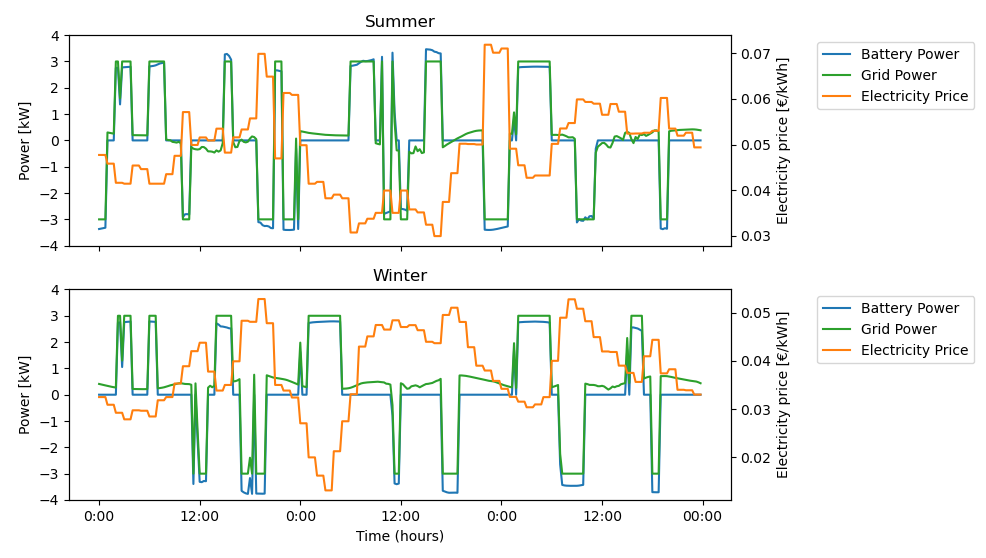
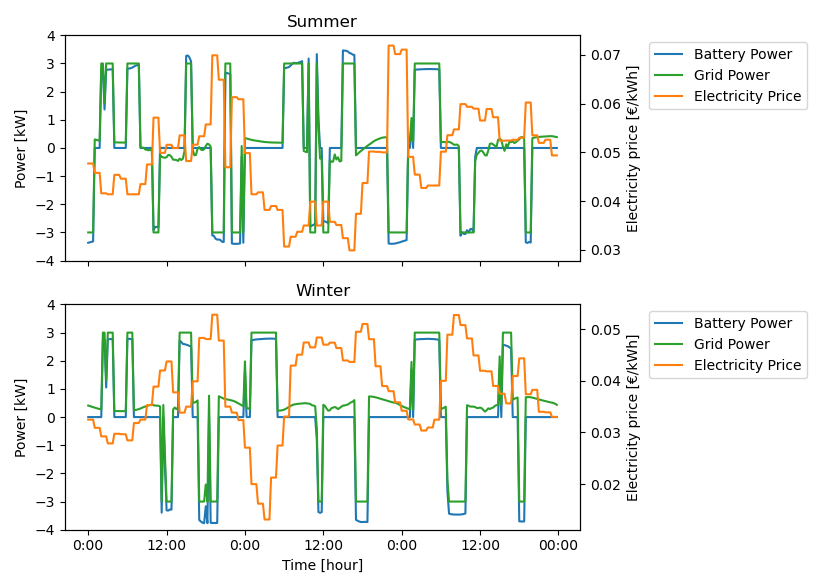
code clean up for hand in

Changed region(s): [[0.0, 0.0305, 1.0, 0.5179], [0.0, 0.5179, 0.9804, 0.9749]]

diff --git a/AssB_Group4_costs.py b/AssB_Group4_costs.py
@@ -39,12 +39,6 @@ eff_dis = 0.94 #battery discharging efficeicny
 eff_ch = 0.94 #battery charging efficeicny
 
 
-######## other parameters too add?
-
-"""Question 3 global vairables"""
-
-EMISSION_CONSTRAINTS = list(range(1,11,1))
-
 def get_minimal_cost(season):
     
     #load either summer or winter input variables
@@ -52,7 +46,6 @@ def get_minimal_cost(season):
     Pdem = season['Residential load [kW]']
     Celec = season['Electricity price [euro/kWh]']
     Emis = season['Marginal emission factor [kg CO2eq/kWh]']
-
     
     # Create Model
     m=gp.Model()
@@ -62,7 +55,6 @@ def get_minimal_cost(season):
     Pbat_dis = m.addVars(T, lb= 0, ub= Pbatmax, vtype= gp.GRB.CONTINUOUS, name= "Pbat_dis")
     
     Pgrid = m.addVars(T, lb= -Pgridmax, ub= Pgridmax, vtype= gp.GRB.CONTINUOUS, name= "Pgrid")
-    
     SoC = m.addVars(T, lb= SoC_min, ub= SoC_max, vtype= gp.GRB.CONTINUOUS, name= "SoC")
         
     # Add Constraints  
@@ -76,8 +68,10 @@ def get_minimal_cost(season):
     m.addConstrs(SoC_max >= SoC[t] for t in range(T))
     
      ## EMMISSIONS CONSTRAINTS - Q3
+    #m.addConstr((gp.quicksum(Emis[t]*Pgrid[t]*Delta_t for t in range(T))) <= 13.724252032773677)
     
     # Set objective function and solve
+    m.setParam('OutputFlag', 0) #remove all the gurobi output stuff we don't need
     obj = gp.quicksum(Celec[t]*Pgrid[t]*Delta_t for t in range(T)) #for the end units to be in euro need to multiply by deltaT
     m.setObjective(obj, gp.GRB.MINIMIZE)
     m.optimize()
@@ -89,15 +83,27 @@ def get_minimal_cost(season):
     season['Pbat'] = season['Pbat_ch'] - season['Pbat_dis'] #query, maybe other way around is nicer for explaining?
     season['SoC'] = m.getAttr("X", SoC).values()
 
-    emissions = gp.quicksum(Emis[t]*Pgrid[t]*Delta_t for t in range(T)).getValue()
-    print('emissions = ' + str(emissions))
+    emissions = gp.quicksum(Emis[t]*Pgrid[t]*Delta_t for t in range(T)).getValue() 
+    #print the cost and emissions associted with the model run
+    print('emissions = ' + str(emissions)) 
+    print("cost = " + str(m.getObjective().getValue()))
     
     return season
 
 summer_out_costmin = get_minimal_cost(summer)
 winter_out_costmin = get_minimal_cost(winter)
+print("Cbat "+ str(C_bat)) #was playing with effects of changing Cbat
+
+#find mac Pbat and Pgrid to investigate constraint activation
+max_pbat_row = winter_out_costmin.iloc[winter_out_costmin['Pbat_dis'].idxmax(axis=0)]
+print("max bat row" + str(max_pbat_row,))
+max_grid =  summer_out_costmin.iloc[summer_out_costmin['Pgrid'].idxmin(axis=0)]
+print("max grid row" + str(max_grid))
 
 #%%
+
+"""Creating the plots"""
+
 def get_plots_Pbat_Pgrid_elecprice(season1, season2):
 
         fig, axs = plt.subplots(nrows =2, ncols=1, sharex=True, sharey=True)
@@ -137,14 +143,10 @@ def get_plots_Pbat_Pgrid_elecprice(season1, season2):
         ax1t.legend(allplots2, labels3, bbox_to_anchor=(
             1.12, 1), loc='upper left')
          
-        axs[1].set_xlabel('Time (hours)')
+        axs[1].set_xlabel('Time [hour]')
         
 get_plots_Pbat_Pgrid_elecprice(summer_out_costmin, winter_out_costmin)
 
-max_pbat_row = winter_out_costmin.iloc[winter_out_costmin['Pbat_dis'].idxmax(axis=0)]
-print(max_pbat_row)
-max_grid =  summer_out_costmin.iloc[summer_out_costmin['Pgrid'].idxmin(axis=0)]
-print(max_grid)
 #%%
 
 def get_plots_SOC(season1,season2):

diff --git a/AssB_Group4_cost_w_emis_constraints.py b/AssB_Group4_cost_w_emis_constraints.py
@@ -37,13 +37,14 @@ C_bat = 13.5 #battery capacity parameter for a Tesla Powerwall rated at 13,5 [kW
 eff_dis = 0.94 #battery discharging efficeicny
 eff_ch = 0.94 #battery charging efficeicny
 
-######## Plot power demand and PV generation data
-f1 = plt.figure(1)
-
 
 """Question 3 global vairables"""
+
 EMISSION_CONSTRAINTS_SUMMER = np.linspace(12.889924867969496, -1.435135121e+01, num=10) 
 EMISSION_CONSTRAINTS_WINTER = np.linspace(26.776254443847375, 6.722496217e-01, num=10) 
+
+
+"""Functions"""
 
 def get_minimal_cost(season):
     
@@ -89,13 +90,14 @@ def get_minimal_cost(season):
         
         m.addConstr((gp.quicksum(Emis[t]*Pgrid[t]*Delta_t for t in range(T))) <= i)
         
-        #m.setParam('OutputFlag', 0) # dont print all the gurobi output stuff
+        m.setParam('OutputFlag', 0) # dont print all the gurobi output stuff
         obj = gp.quicksum(Celec[t]*Pgrid[t]*Delta_t for t in range(T)) #for the end units to be in euro need to multiply by deltaT
         m.setObjective(obj, gp.GRB.MINIMIZE)
         m.optimize()
          
         #add the values to the new df
-        cost = m.getObjective().getValue()
+        unroundedcost = m.getObjective().getValue()
+        cost = round(unroundedcost,2)
         emissions = gp.quicksum(Emis[t]*Pgrid[t]*Delta_t for t in range(T)).getValue()
         df.loc[len(df)] = [i, cost, emissions]
     
@@ -122,5 +124,13 @@ plt.ylabel('Costs [€]')
 plt.ylim(-0.75,1.5,0.25)
 
 
-rEMISSION_CONSTRAINTS_SUMMER = EMISSION_CONSTRAINTS_SUMMER.round(3)
-rEMISSION_CONSTRAINTS_WINTER = EMISSION_CONSTRAINTS_WINTER.round(3)
+
+"""Calculations for write up Q3 """
+
+# rEMISSION_CONSTRAINTS_SUMMER = EMISSION_CONSTRAINTS_SUMMER.round(2)
+# rEMISSION_CONSTRAINTS_WINTER = EMISSION_CONSTRAINTS_WINTER.round(2)
+
+medsum = np.median(summer_out_constraints.Emissions)
+medwin = np.median(winter_out_constraints.Emissions)
+print(' summer emissions ' +str(medsum))
+print( ' winter emissions ' +str(medwin))

diff --git a/AssB_Group4_emissions.py b/AssB_Group4_emissions.py
@@ -23,8 +23,6 @@ Import your input data for the model
 summer = pd.read_csv("AssB_Input_Group4_summer.csv")
 winter = pd.read_csv("AssB_Input_Group4_winter.csv")
 
-#for now setting up just for summer as thinking when we make it a function can specify summer or winter
-
 """
 Parameters value
 """
